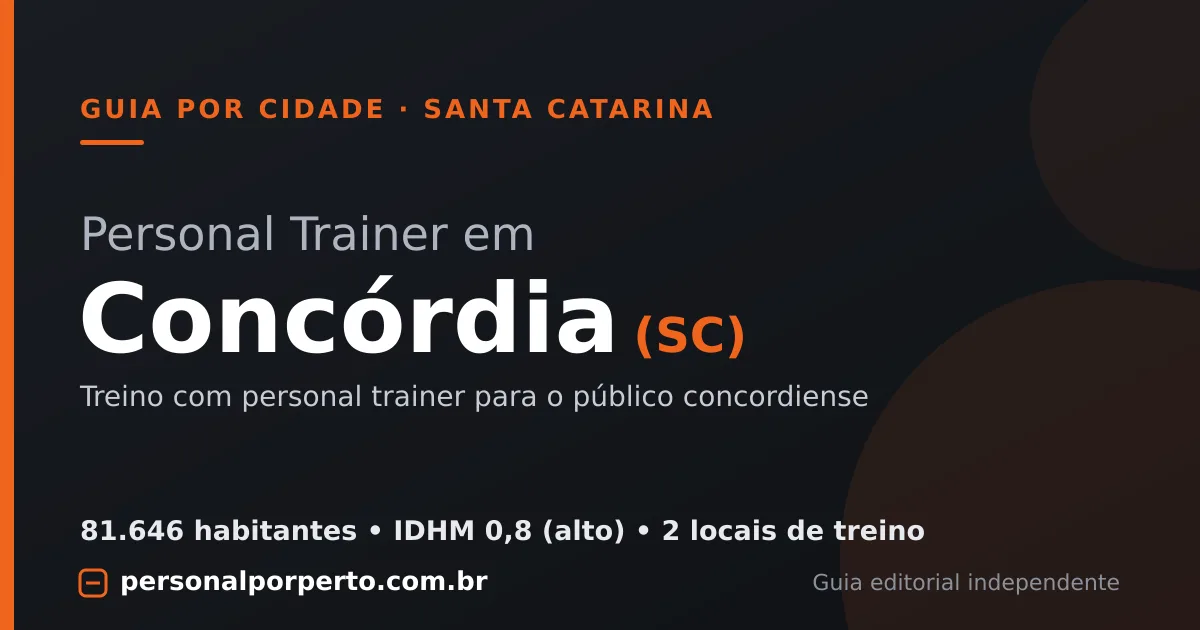
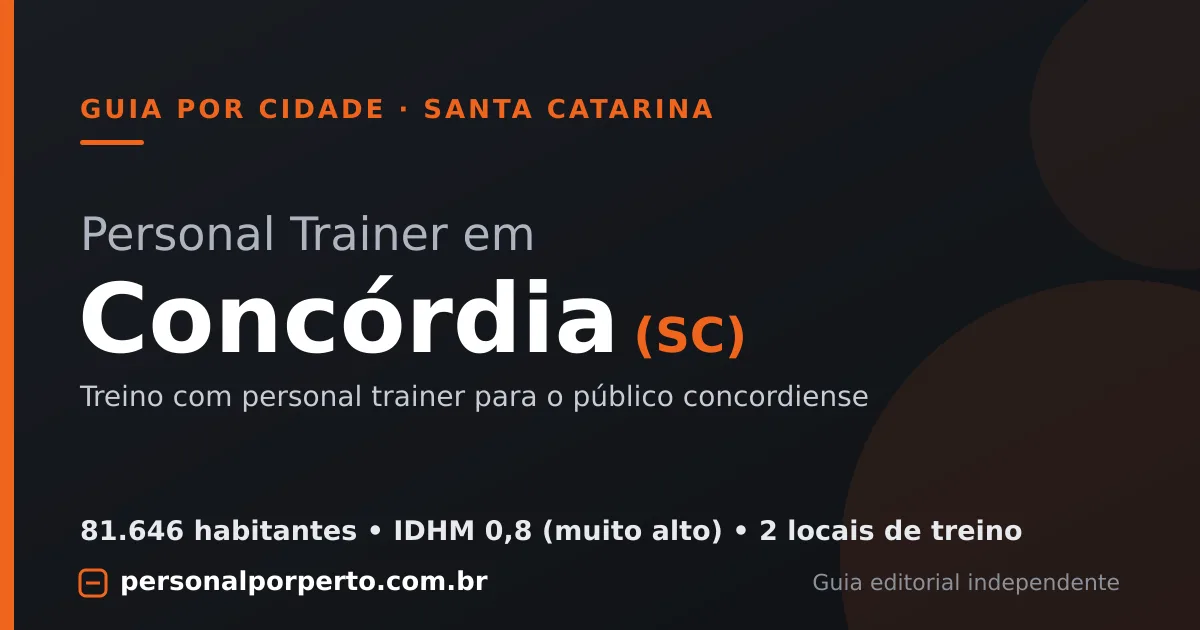
Bloco 44: completar 20 cidades — total 874
Consolida no index.ts (bloco único) os 20 guias do Bloco 44:

Vale do São Francisco (PE): Lagoa Grande, Santa Maria da Boa Vista,
Cabrobó, Petrolândia — fruticultura irrigada e vinicultura tropical.
Vale dos Vinhedos/Serra Gaúcha (RS): Nova Prata, São Marcos, Monte
Belo do Sul, Guaporé.
Agronegócio/agroindústria RS: Não-Me-Toque, Marau, Getúlio Vargas,
Vera Cruz, Arroio do Meio, Horizontina.
Agronegócio/agroindústria PR: Palotina, Assis Chateaubriand, Ubiratã.
Outros: Jales-SP (agropecuária), Venda Nova do Imigrante-ES
(agroturismo), São Miguel do Oeste-SC (polo regional).

4 candidatos originais (Concórdia, Xanxerê, Ijuí, Cruz Alta) já
estavam registrados em blocos anteriores — os agentes corrigiram
os arquivos existentes (datas, fatos, IDHM) e foram substituídos
por 4 novas cidades para manter as 20 do bloco.

Conteúdo pesquisado (Censo 2022, IDHM, bairros, clima, mobilidade,
corridas, preços) com capas. Build e auditoria OK (911 páginas).

Claude-Session: https://claude.ai/code/session_01RoNCJ416QkxZntp59Da9E6

Changed region(s): [[0.4625, 0.8143, 0.8633, 0.8746]]

diff --git a/src/data/cidades/index.ts b/src/data/cidades/index.ts
@@ -884,8 +884,33 @@ import { cidade as querencia } from './querencia-mt';
 import { cidade as sapezal } from './sapezal-mt';
 import { cidade as aguaBoa } from './agua-boa-mt';
 import { cidade as canarana } from './canarana-mt';
+import { cidade as lagoaGrande } from './lagoa-grande-pe';
+import { cidade as santaMariaDaBoaVista } from './santa-maria-da-boa-vista-pe';
+import { cidade as cabrobo } from './cabrobo-pe';
+import { cidade as petrolandia } from './petrolandia-pe';
+import { cidade as novaPrata } from './nova-prata-rs';
+import { cidade as saoMarcos } from './sao-marcos-rs';
+import { cidade as monteBeloDoSul } from './monte-belo-do-sul-rs';
+import { cidade as jales } from './jales-sp';
+import { cidade as palotina } from './palotina-pr';
+import { cidade as assisChateaubriand } from './assis-chateaubriand-pr';
+import { cidade as ubirata } from './ubirata-pr';
+import { cidade as vendaNovaDoImigrante } from './venda-nova-do-imigrante-es';
+import { cidade as saoMiguelDoOeste } from './sao-miguel-do-oeste-sc';
+import { cidade as naoMeToque } from './nao-me-toque-rs';
+import { cidade as marau } from './marau-rs';
+import { cidade as getulioVargas } from './getulio-vargas-rs';
+import { cidade as guapore } from './guapore-rs';
+import { cidade as veraCruz } from './vera-cruz-rs';
+import { cidade as arroioDoMeio } from './arroio-do-meio-rs';
+import { cidade as horizontina } from './horizontina-rs';
 
 export const cidades: Cidade[] = [
+  // Bloco 44 (Vale do São Francisco PE, Vale dos Vinhedos/agronegócio RS, agronegócio PR/SC, Venda Nova do Imigrante ES)
+  lagoaGrande, santaMariaDaBoaVista, cabrobo, petrolandia, novaPrata,
+  saoMarcos, monteBeloDoSul, jales, palotina, assisChateaubriand, ubirata,
+  vendaNovaDoImigrante, saoMiguelDoOeste, naoMeToque, marau, getulioVargas,
+  guapore, veraCruz, arroioDoMeio, horizontina,
   // Bloco 43 (agronegócio Oeste da Bahia/Piauí/MT/MS, Pantanal/Bonito, Agreste PE)
   luisEduardoMagalhaes, saoDesiderio, correntina, formosaDoRioPreto, urucui,
   bomJesus, toritama, saoCaitano, triunfo, chapadaoDoSul, costaRica,
